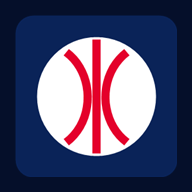
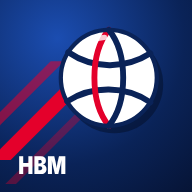
Nouvelle icone de l app

diff --git a/service-worker-assets.js b/service-worker-assets.js
@@ -181,6 +181,10 @@
       "url": "HandballManagerWeb.styles.css"
     },
     {
+      "hash": "sha256-322Z5ZCNmnME3wNoPSns5OpXkZd5Igekt8QpcsKNk0k=",
+      "url": "apple-touch-icon.png"
+    },
+    {
       "hash": "sha256-nkcVpYcRUWVHoKwlT+OnKYvdbZpKEaXCCaI2OVxP1eQ=",
       "url": "css\/gestes.css"
     },
@@ -201,15 +205,15 @@
       "url": "donnees\/ffhb.json"
     },
     {
-      "hash": "sha256-9JN16zrkEeRORvxWttptdiA2HDa9P0f\/MyOxhpYSSbo=",
+      "hash": "sha256-zUtbY3q0WwyrqIIXBX7Cy8o244nXhFjSvP5bCXqu8l4=",
       "url": "icon-192.png"
     },
     {
-      "hash": "sha256-GDOiLYNfGyu6J+LDLDpGF3OSt7VO5yw6sPW9uNu0F9E=",
+      "hash": "sha256-DllxZlWB0yLjk2wIKMlec9s2D0bIPeTdIgMtC09DQmc=",
       "url": "icon-512.png"
     },
     {
-      "hash": "sha256-pFBnGL5\/keNetcCOTrqfxMKhU7jKhTl3CKiu2YbXu9k=",
+      "hash": "sha256-Ekm21y9yMEf2N0G8mB4rCzRtiM7AZV6lPfGq5hPw9l4=",
       "url": "index.html"
     },
     {
@@ -705,7 +709,7 @@
       "url": "logos\/villenave.png"
     },
     {
-      "hash": "sha256-oq63c+foe1tuwwS0AzqA32e2eewPIT5YLTiBYcWENd4=",
+      "hash": "sha256-zBgEASNTOazr2fG1ppJPSw71qM8ck3ZcqXErHb50m3w=",
       "url": "manifest.webmanifest"
     },
     {
@@ -713,5 +717,5 @@
       "url": "_content\/HandballManagerInterface\/HandballManagerInterface.bundle.scp.css"
     }
   ],
-  "version": "EXDb6GML"
+  "version": "3rPMbDE7"
 };

diff --git a/404.html b/404.html
@@ -17,10 +17,10 @@
     <link rel="stylesheet" href="css/jeu.css" />
     <link rel="stylesheet" href="css/jeu-v2.css" />
     <link rel="stylesheet" href="css/gestes.css?v=76" />
-    <link rel="icon" type="image/png" href="icon-192.png" />
+    <link rel="icon" type="image/png" href="icon-192.png?v=2" />
     <link href="HandballManagerWeb.styles.css" rel="stylesheet" />
     <link href="manifest.webmanifest" rel="manifest" />
-    <link rel="apple-touch-icon" href="icon-192.png" />
+    <link rel="apple-touch-icon" href="apple-touch-icon.png?v=2" />
 </head>
 
 <body>

diff --git a/index.html b/index.html
@@ -17,10 +17,10 @@
     <link rel="stylesheet" href="css/jeu.css" />
     <link rel="stylesheet" href="css/jeu-v2.css" />
     <link rel="stylesheet" href="css/gestes.css?v=76" />
-    <link rel="icon" type="image/png" href="icon-192.png" />
+    <link rel="icon" type="image/png" href="icon-192.png?v=2" />
     <link href="HandballManagerWeb.styles.css" rel="stylesheet" />
     <link href="manifest.webmanifest" rel="manifest" />
-    <link rel="apple-touch-icon" href="icon-192.png" />
+    <link rel="apple-touch-icon" href="apple-touch-icon.png?v=2" />
 </head>
 
 <body>

diff --git a/service-worker.js b/service-worker.js
@@ -63,4 +63,4 @@ self.addEventListener('notificationclick', event => {
         return clients.openWindow('./jeu');
     }));
 });
-/* Manifest version: EXDb6GML */
+/* Manifest version: 3rPMbDE7 */
